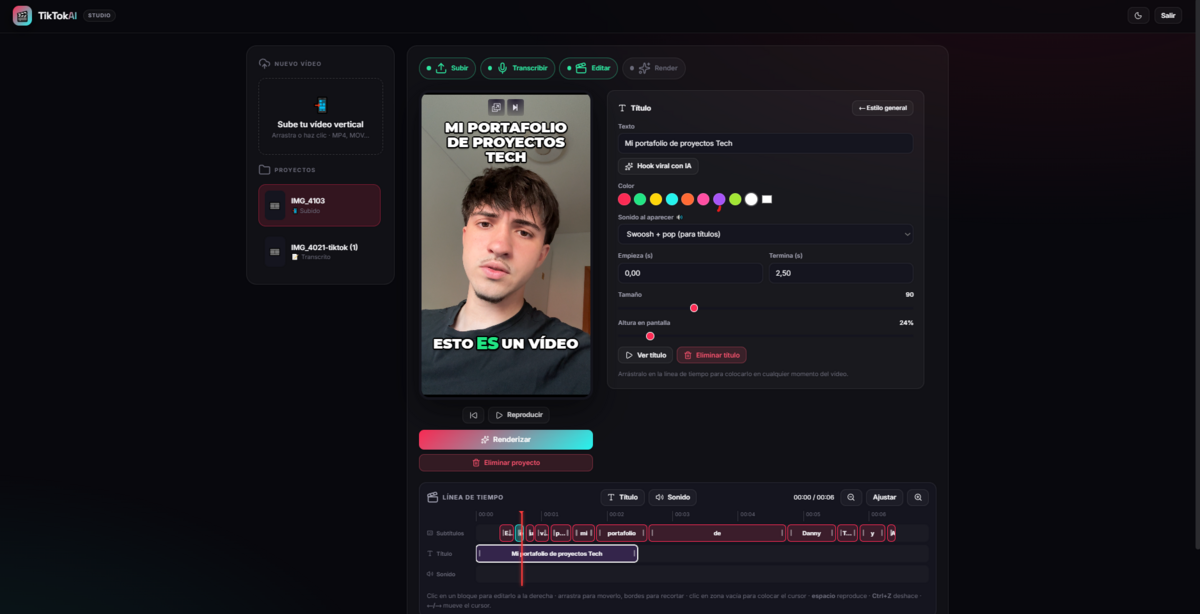
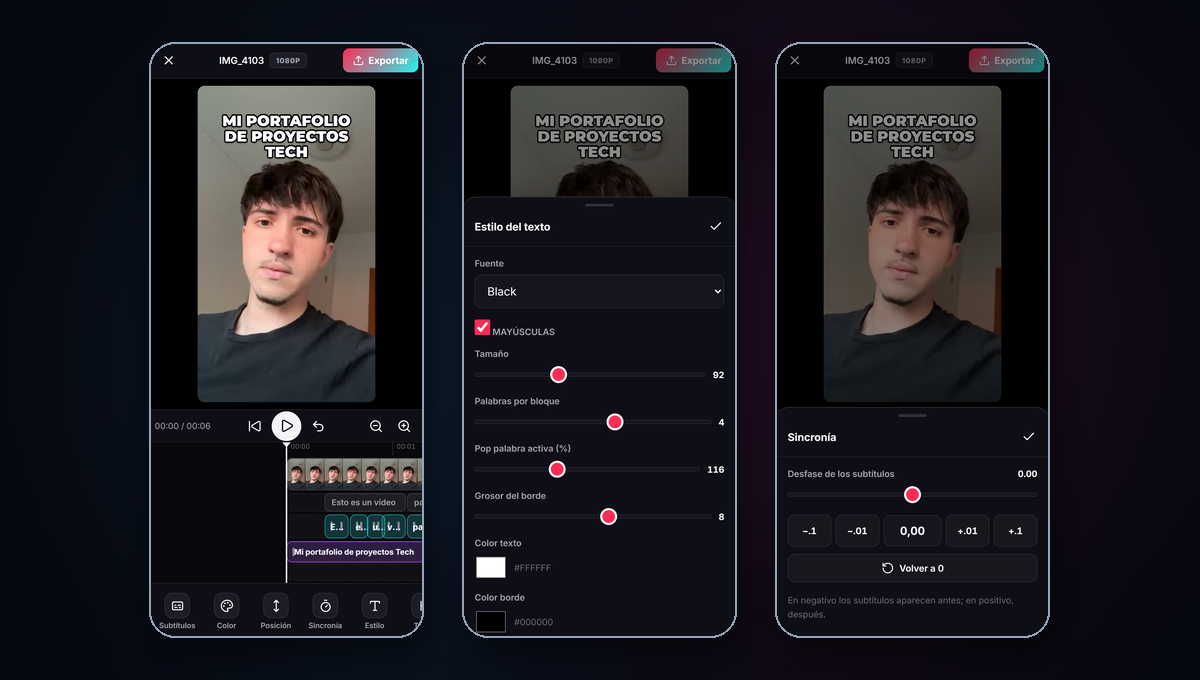
Actualizar TikTokAI a su version actual: editor movil, proxy y miniaturas
Capturas nuevas de la app desplegada y descripcion acorde al rediseno
mobile-first. Se retira Llama 3.1 de las tecnologias porque Groq lo ha
descatalogado.

diff --git a/src/context/translations.js b/src/context/translations.js
@@ -116,21 +116,21 @@ export const translations = {
             },
             tiktokaiProject: {
                 title: "TikTokAI — Editor de Subtítulos con IA",
-                shortDesc: "Editor de vídeo estilo CapCut que transcribe y genera subtítulos karaoke palabra a palabra con IA, listo para renderizar y publicar en TikTok.",
-                fullDesc: "Subes un vídeo vertical y en segundos tienes subtítulos karaoke palabra a palabra, perfectamente sincronizados con tu voz y listos para publicar en TikTok.\n\nLa IA escucha el vídeo, lo transcribe con la marca de tiempo exacta de cada palabra y te propone un título viral y hashtags basados en lo que realmente dices — no se inventa nada que no esté en el vídeo.\n\nDespués lo retocas como en CapCut: un editor con timeline donde mueves subtítulos, títulos y efectos de sonido, con imantado a las palabras, deshacer y vista previa en directo. Cuando te gusta el resultado, un clic renderiza el vídeo final con todo incrustado.\n\nLo construí desde cero con Python (FastAPI) y ffmpeg, y lleva meses funcionando 24/7 en mi propio servidor como un servicio más de producción.",
+                shortDesc: "Editor de vídeo móvil estilo CapCut que transcribe y genera subtítulos karaoke palabra a palabra con IA, listo para renderizar y publicar en TikTok.",
+                fullDesc: "Grabas un vídeo vertical con el móvil, lo subes desde el propio móvil y en segundos tienes subtítulos karaoke palabra a palabra, sincronizados con tu voz y listos para publicar en TikTok.\n\nLa IA escucha el vídeo y lo transcribe con la marca de tiempo exacta de cada palabra, así que la palabra que suena se resalta sola. A partir de lo que realmente dices propone también descripción y hashtags — no se inventa nada que no esté en el vídeo.\n\nEl editor es una app a pantalla completa pensada para el dedo, no una web de escritorio encogida: el cursor se queda fijo en el centro y arrastras la cinta de tiempo, con la tira de fotogramas del vídeo debajo para saber siempre dónde estás. Cada ajuste (color, posición, sincronía, estilo, títulos, sonidos) se abre en una hoja inferior, con vista previa en directo y deshacer.\n\nEl reto técnico fue que un .mov de iPhone a 15 Mbps hacía que el navegador del móvil se atragantara. Lo resolví generando en el servidor un vídeo proxy ligero con un fotograma clave por segundo y una tira de miniaturas en una sola imagen: saltar por la línea de tiempo pasó a ser instantáneo, y el render final sigue usando el vídeo original a máxima calidad.\n\nLo construí desde cero con Python (FastAPI) y ffmpeg, y lleva meses funcionando 24/7 en mi propio VPS como un servicio más de producción.",
                 workflow: [
-                    "Subida de vídeo vertical (grabado en el propio móvil)",
-                    "Transcripción word-level con Groq Whisper large-v3",
-                    "Edición en timeline multipista (subtítulos, títulos, sonido)",
-                    "Generación de hook viral y hashtags con Llama 3.1 (Groq)",
-                    "Render final quemando subtítulos con ffmpeg/libass",
-                    "Descarga del vídeo listo para publicar"
+                    "Subida del vídeo vertical desde el móvil",
+                    "Preparación automática: proxy ligero + tira de miniaturas",
+                    "Transcripción palabra a palabra con Groq Whisper large-v3",
+                    "Edición táctil en timeline (subtítulos, títulos, sonidos)",
+                    "Generación de descripción y hashtags con IA",
+                    "Render con ffmpeg/libass y descarga listo para publicar"
                 ],
                 features: [
+                    { title: "Editor Móvil Táctil", desc: "App a pantalla completa estilo CapCut: cursor fijo, cinta arrastrable y ajustes en hoja inferior." },
                     { title: "Transcripción con IA", desc: "Groq Whisper large-v3 transcribe con marcas de tiempo por palabra para el efecto karaoke." },
-                    { title: "Editor Multipista", desc: "Timeline estilo CapCut con imantado, deshacer global y edición por bloques." },
-                    { title: "Render ffmpeg/libass", desc: "Subtítulos y títulos animados quemados directamente en el vídeo final." },
-                    { title: "Copywriting con IA", desc: "Genera hook viral y hashtags con Llama 3.1 fiel al contenido real del vídeo." }
+                    { title: "Proxy y Miniaturas", desc: "El servidor genera un vídeo ligero y una tira de fotogramas para que la edición vaya fluida en el móvil." },
+                    { title: "Render ffmpeg/libass", desc: "Subtítulos y títulos animados quemados en el vídeo final, siempre desde el original a máxima calidad." }
                 ],
                 thumbnail: "/tiktokai-thumbnail.png",
                 screenshot: "/tiktokai-screenshot.png"
@@ -303,21 +303,21 @@ export const translations = {
             },
             tiktokaiProject: {
                 title: "TikTokAI — AI Subtitle Editor",
-                shortDesc: "CapCut-style video editor that transcribes and generates word-by-word karaoke subtitles with AI, ready to render and post to TikTok.",
-                fullDesc: "Upload a vertical video and within seconds you get word-by-word karaoke subtitles, perfectly synced to your voice and ready to publish on TikTok.\n\nThe AI listens to the video, transcribes it with the exact timestamp of every word, and suggests a viral title and hashtags based on what you actually say — it never makes up claims that are not in the video.\n\nThen you polish it like in CapCut: a timeline editor where you move subtitles, titles and sound effects around, with word snapping, undo and live preview. When it looks right, one click renders the final video with everything burned in.\n\nI built it from scratch with Python (FastAPI) and ffmpeg, and it has been running 24/7 on my own server for months as one more production service.",
+                shortDesc: "Mobile CapCut-style video editor that transcribes and generates word-by-word karaoke subtitles with AI, ready to render and post to TikTok.",
+                fullDesc: "You record a vertical video on your phone, upload it from that same phone, and within seconds you get word-by-word karaoke subtitles synced to your voice and ready to publish on TikTok.\n\nThe AI listens to the video and transcribes it with the exact timestamp of every word, so the word being spoken highlights itself. From what you actually say it also drafts a description and hashtags — it never makes up claims that are not in the video.\n\nThe editor is a full-screen app built for thumbs, not a shrunken desktop site: the playhead stays fixed in the centre while you drag the time ribbon, with a filmstrip of the video underneath so you always know where you are. Every setting (colour, position, sync, style, titles, sounds) opens in a bottom sheet, with live preview and undo.\n\nThe real challenge was that a 15 Mbps iPhone .mov made mobile browsers choke. I solved it by generating a lightweight proxy video server-side with one keyframe per second, plus a thumbnail strip baked into a single image: scrubbing the timeline became instant, while the final render still uses the original footage at full quality.\n\nI built it from scratch with Python (FastAPI) and ffmpeg, and it has been running 24/7 on my own VPS for months as one more production service.",
                 workflow: [
-                    "Upload a vertical video (recorded on the phone)",
+                    "Upload the vertical video straight from the phone",
+                    "Automatic prep: lightweight proxy + thumbnail strip",
                     "Word-level transcription with Groq Whisper large-v3",
-                    "Edit on a multi-track timeline (subtitles, titles, sound)",
-                    "Generate a viral hook and hashtags with Llama 3.1 (Groq)",
-                    "Final render burning in subtitles with ffmpeg/libass",
-                    "Download the video ready to publish"
+                    "Touch editing on the timeline (subtitles, titles, sounds)",
+                    "AI-generated description and hashtags",
+                    "Render with ffmpeg/libass and download ready to publish"
                 ],
                 features: [
+                    { title: "Touch Mobile Editor", desc: "Full-screen CapCut-style app: fixed playhead, draggable ribbon and bottom-sheet settings." },
                     { title: "AI Transcription", desc: "Groq Whisper large-v3 transcribes with per-word timestamps for the karaoke effect." },
-                    { title: "Multi-Track Editor", desc: "CapCut-style timeline with snapping, global undo, and block-based editing." },
-                    { title: "ffmpeg/libass Render", desc: "Animated subtitles and titles burned directly into the final video." },
-                    { title: "AI Copywriting", desc: "Generates a viral hook and hashtags with Llama 3.1, faithful to the video's real content." }
+                    { title: "Proxy & Thumbnails", desc: "The server builds a light video and a filmstrip so editing stays smooth on a phone." },
+                    { title: "ffmpeg/libass Render", desc: "Animated subtitles and titles burned into the final video, always from the full-quality original." }
                 ],
                 thumbnail: "/tiktokai-thumbnail.png",
                 screenshot: "/tiktokai-screenshot.png"

diff --git a/src/components/Projects/Projects.jsx b/src/components/Projects/Projects.jsx
@@ -55,7 +55,7 @@ const Projects = () => {
         },
         {
             ...t.projects.tiktokaiProject,
-            tech: ['FastAPI', 'Python', 'ffmpeg', 'Groq', 'Whisper', 'Llama 3.1'],
+            tech: ['FastAPI', 'Python', 'ffmpeg', 'libass', 'Groq', 'Whisper'],
             status: t.projects.statusLive,
             repoLink: 'https://github.com/danitechIA/TIKTOKAI',
         },
